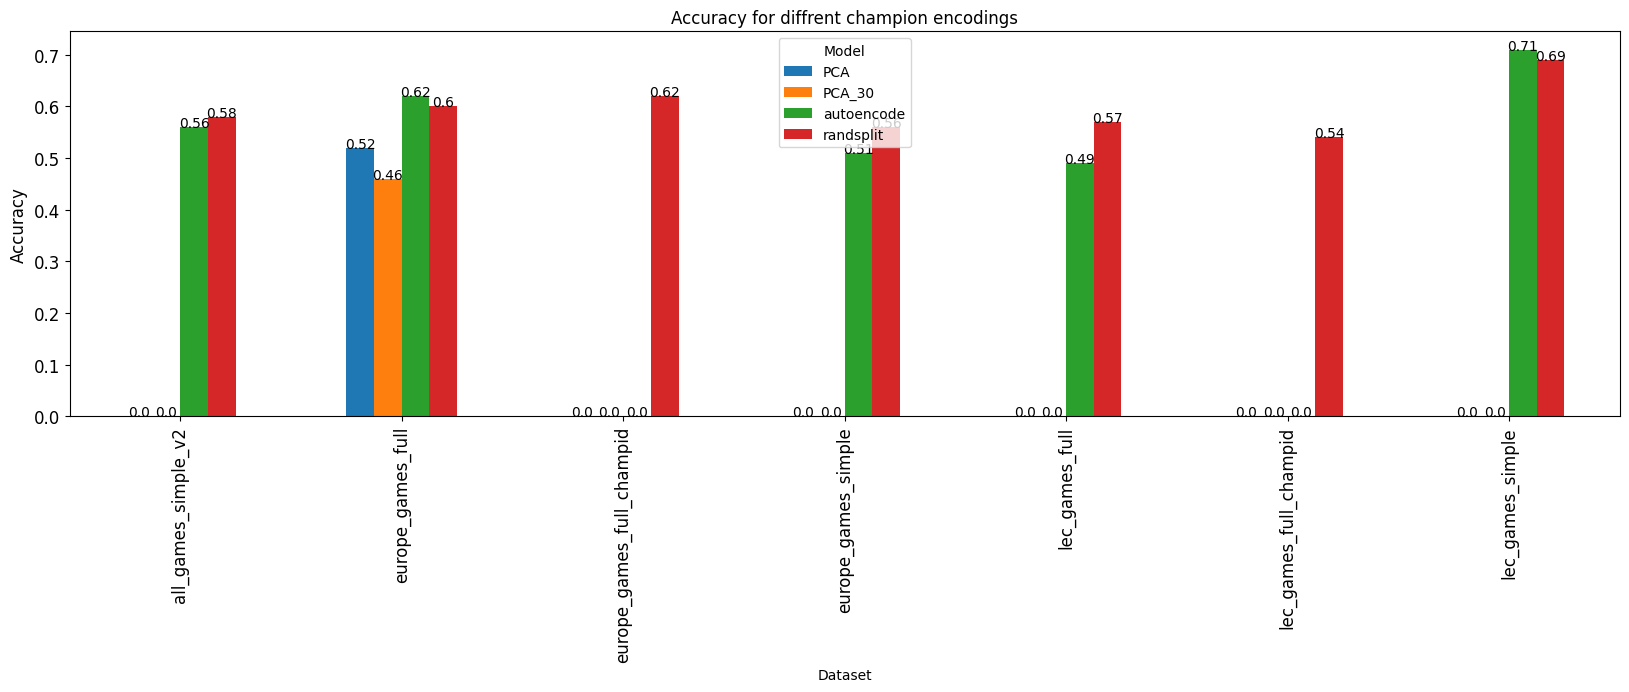
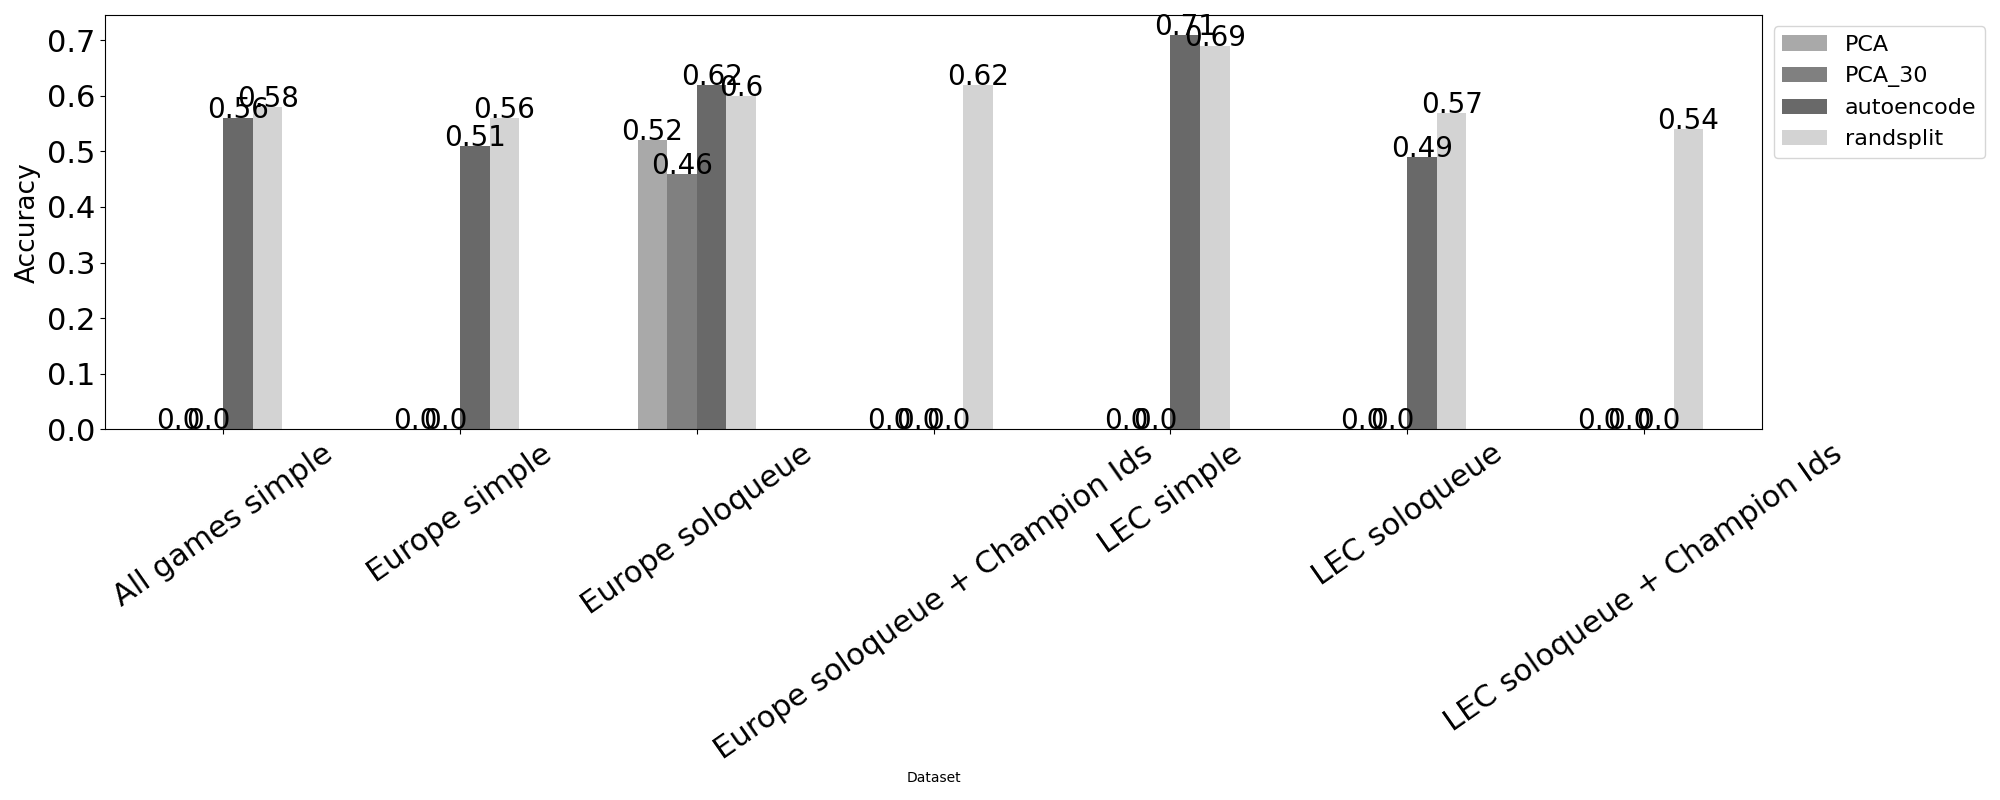
create graphics

diff --git a/scripts/gen_graph.py b/scripts/gen_graph.py
@@ -1,30 +1,134 @@
 import matplotlib.pyplot as plt
 import pandas as pd
 
+datasets_class = {'all_games_champs_only':'All games champions only',
+ 'all_games_champ_stats_only':'All games stats only',
+ 'all_games_matchups':'All games matchup',
+ 'all_games_pro_only':'Half year games pro stats',
+ 'all_games_pro_only_small':'Half year games limited pro stats',
+ 'all_games_pro_only_spring':'All games pro stats',
+ 'all_games_pro_only_spring_small':'All games limited pro stats',
+ 'all_games_simple_v2':'All games simple',
+ 'all_games_with_patch':'All games + patch',
+ 'all_games_with_region':'All games + region',
+ 'europe_games_full':'Europe soloqueue',
+ 'europe_games_full_champid':'Europe soloqueue + Champion Ids',
+ 'europe_games_simple':'Europe simple',
+ 'europe_games_stats_only':'Europe simple stats only',
+ 'from_costaetal':'Original Costa et.al.',
+ 'from_costaetal_self':'Like Costa et.al. more features',
+ 'from_costaetal_self_org':'Recreated exact Costa et.al.',
+ 'from_costaetal_self_small':'Like Costa et.al.',
+ 'lec_games_full':'LEC soloqueue',
+ 'lec_games_full_champid':'LEC soloqueue + Champion Ids',
+ 'lec_games_simple':'LEC simple'}
+
+datasets_reg = {'all_games_champs_only':'All games champions only',
+ 'all_games_champ_stats_only':'All games stats only',
+ 'all_games_matchups':'All games matchup',
+ 'all_games_simple_v2':'All games simple'}
+
+dataset_select_class = [
+#
+#  'all_games_champs_only',
+#  'all_games_champ_stats_only',
+#  'all_games_matchups',
+#  'all_games_pro_only',
+#  'all_games_pro_only_small',
+ 'all_games_pro_only_spring',
+ 'all_games_pro_only_spring_small',
+#  'all_games_simple_v2',
+#  'all_games_with_patch',
+#  'all_games_with_region',
+#  'europe_games_full',
+#  'europe_games_full_champid',
+#  'europe_games_pro_only',
+#  'europe_games_simple',
+#  'europe_games_stats_only',
+#  'from_costaetal',
+ 'from_costaetal_self',
+#  'from_costaetal_self_org',
+ 'from_costaetal_self_small',
+#  'lec_games_full',
+#  'lec_games_full_champid',
+#  'lec_games_pro_only',
+#  'lec_games_simple',
+#
+ ]
+
+dataset_select_reg = [
+#
+ 'all_games_champs_only',
+ 'all_games_champ_stats_only',
+ 'all_games_matchups',
+ 'all_games_simple_v2'
+# 
+]
+
+model_select = [
+#
+'randsplit',
+# 'normal',
+# 'PCA',
+# 'autoencode',
+# 'PCA_30',
+#
+]
+
+colors=['darkgray','gray','dimgray','lightgray']
+
+is_reg = False
+
+name = 'years'
+
 def addlabels(ax):
     for p in ax.patches:
         width = p.get_width()
         height = p.get_height()
         x, y = p.get_xy()
-        ax.annotate(f'{height}', (x + width/2, y + height), ha='center')
-
+        ax.annotate(f'{height}', (x + width/2, y + height), fontsize=20, ha='center')
 
 def plot_data(df):
-    ax = df.plot.bar(x='Dataset',y='Number', title ="Accuracy for Regression", fontsize=12, legend = False)
+    ax = df.plot.bar(x='Dataset',y='Number', title ="Accuracy for Regression", fontsize=15, legend = False,colors=colors)
     ax.set_ylabel("Accuracy", fontsize=12)
     addlabels(ax)
     plt.show()
 
 def plt_pivot(df):
     pivot = df.pivot(index='Dataset',columns='Model',values='Number')
-    ax = pivot.plot.bar(title ="Accuracy for diffrent champion encodings", fontsize=12, legend = True,figsize=(20,5))
-    ax.set_ylabel("Accuracy", fontsize=12)
-    addlabels(pivot)
+    ax = pivot.plot.bar(title ="", fontsize=22, legend = True,figsize=(10,8),color=colors)
+    ax.set_ylabel("Accuracy", fontsize=19)
+    addlabels(ax)
+    plt.legend(loc='upper left', bbox_to_anchor=(1, 1),fontsize=16)
+    plt.xticks(rotation=35)
+    plt.tight_layout()
+    plt.savefig(f'graphics/{name}.png')
     plt.show()
 
-reg_data = pd.read_csv('flask/static/data/result_complete_regression.csv',delimiter=';',decimal=',')
-classi_data = pd.read_csv('flask/static/data/result_complete_classifier.csv',delimiter=';',decimal=',')
+def map_names(value):
+    if is_reg:
+        return datasets_reg[value]
+    return datasets_class[value]
 
-filtered_reg = reg_data.loc[reg_data['Value'] == 'Accuracy']
-filtered_classi = classi_data.loc[classi_data['Dataset'].isin(['all_games_champ_stats_only','all_games_champs_only','all_games_matchups','all_games_simple_v2'])]
+def filter_datasets(df):
+    if is_reg:
+        return df.loc[df['Dataset'].isin(dataset_select_reg)]
+    return df.loc[df['Dataset'].isin(dataset_select_class)]
+
+if is_reg:
+    #Load regression
+    data = pd.read_csv('flask/static/data/result_complete_regression.csv',delimiter=';',decimal=',')
+else:
+    #Load classfier
+    data = pd.read_csv('flask/static/data/result_complete_classifier.csv',delimiter=';',decimal=',')
+
+data = data.loc[data['Value'] == 'Accuracy']
+
+data = filter_datasets(data)
+
+data = data.loc[data['Model'].isin(model_select)]
+
+data['Dataset'] = data['Dataset'].apply(map_names)
+
+plt_pivot(data)
 
